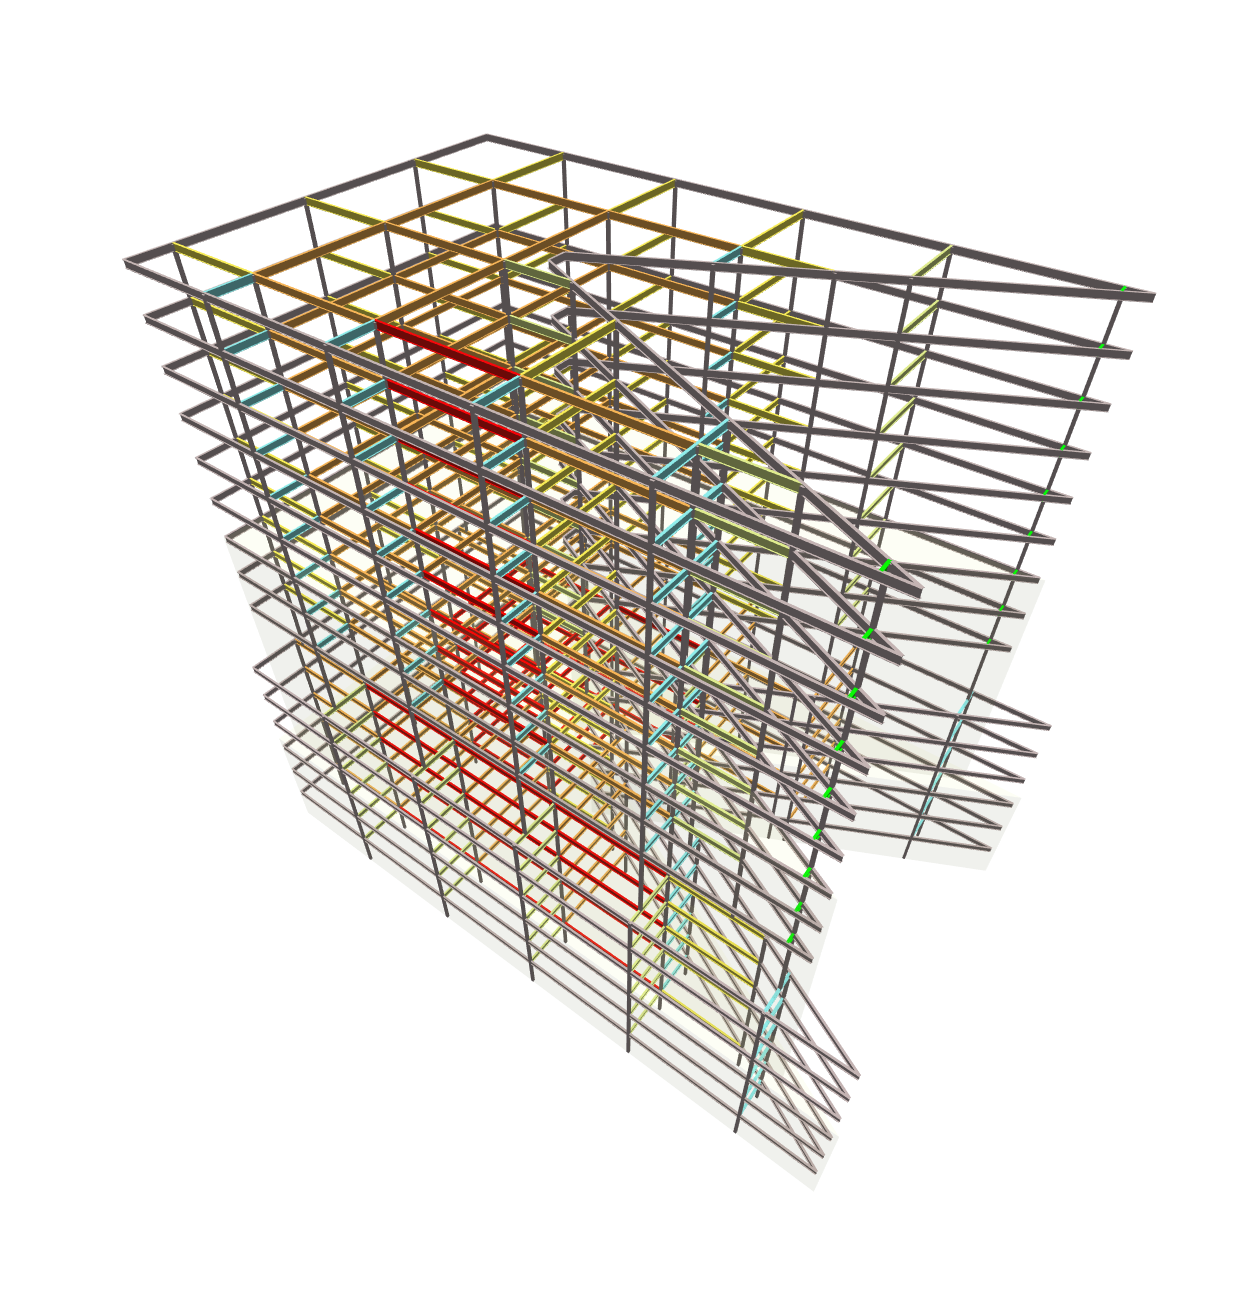
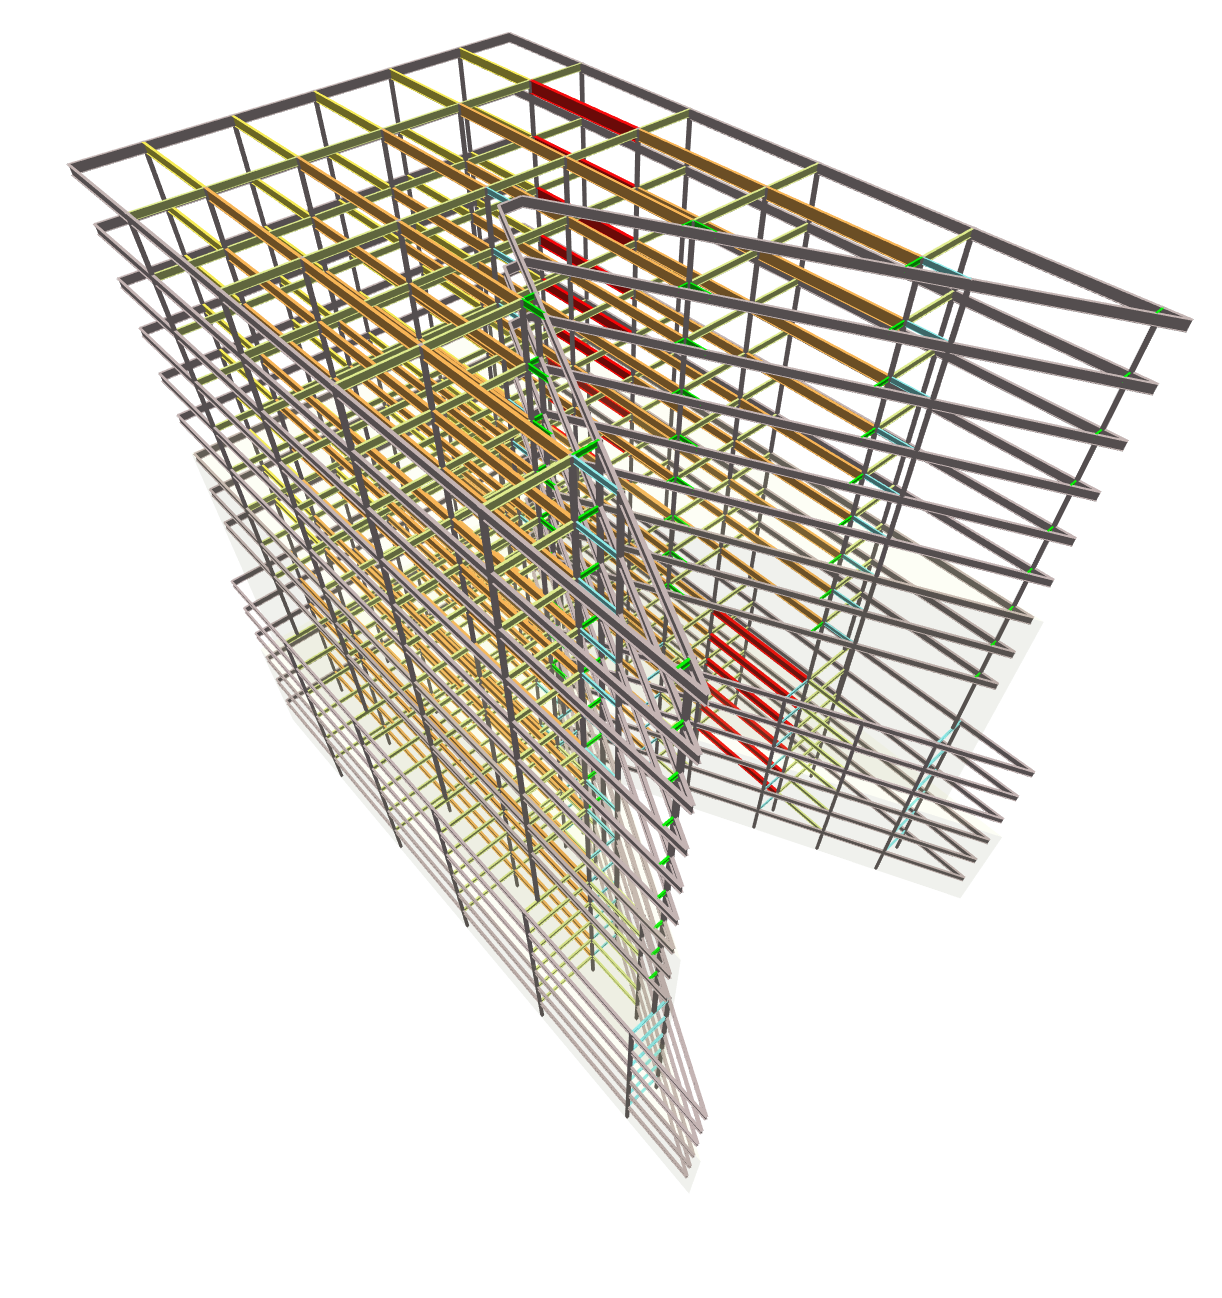
Add column sizing.

diff --git a/Structure/src/Structure.cs b/Structure/src/Structure.cs
@@ -64,6 +64,17 @@ namespace Structure
             new Material(Colors.Red, 0.0, 0.0, Guid.NewGuid(), "Gradient 6"),
         };
 
+        private static List<WideFlangeProfile> _beamProfiles = new List<WideFlangeProfile>(){
+            (WideFlangeProfile)WideFlangeProfileServer.Instance.GetProfileByName("W10x12"),
+            (WideFlangeProfile)WideFlangeProfileServer.Instance.GetProfileByName("W12x14"),
+            (WideFlangeProfile)WideFlangeProfileServer.Instance.GetProfileByName("W14x22"),
+            (WideFlangeProfile)WideFlangeProfileServer.Instance.GetProfileByName("W16x26"),
+            (WideFlangeProfile)WideFlangeProfileServer.Instance.GetProfileByName("W18x35"),
+            (WideFlangeProfile)WideFlangeProfileServer.Instance.GetProfileByName("W21x44"),
+            (WideFlangeProfile)WideFlangeProfileServer.Instance.GetProfileByName("W24x55"),
+            (WideFlangeProfile)WideFlangeProfileServer.Instance.GetProfileByName("W27x84")
+        };
+
         private static double _longestGridSpan = 0.0;
 
         /// <summary>
@@ -128,8 +139,6 @@ namespace Structure
                 levels = levelsModel.AllElementsOfType<Level>().ToList();
             }
 
-            var girderProfile = (WideFlangeProfile)WideFlangeProfileServer.Instance.GetProfileByName("W18x40");
-
             List<Line> xGrids;
             List<Line> yGrids;
 
@@ -144,8 +153,9 @@ namespace Structure
             foreach(var envelope in envelopes)
             {
                 // Inset the footprint just a bit to keep the
-                // beams out of the plane of the envelope.
-                var footprint = envelope.Profile.Perimeter.Offset(-girderProfile.bf/2)[0];
+                // beams out of the plane of the envelope. Use the biggest 
+                // beam that we have.
+                var footprint = envelope.Profile.Perimeter.Offset(-((WideFlangeProfile)_beamProfiles.Last()).bf/2)[0];
 
                 // Trim all the grid lines by the boundary
                 var boundarySegments = footprint.Segments();
@@ -178,12 +188,11 @@ namespace Structure
 
                 foreach(var l in envLevels)
                 {
-                    var t = new Transform(0,0,l.Elevation);
-                    var framing = CreateGirders(girderProfile, t, xGridSegments, yGridSegments, boundarySegments, input.ColorBeamsByLength);
+                    var framing = CreateGirders(l.Elevation, xGridSegments, yGridSegments, boundarySegments, input.ColorBeamsByLength);
                     model.AddElements(framing);
                 }
 
-                var colProfile = new Profile(Polygon.Rectangle(0.2,0.2));
+                var colProfile = (WideFlangeProfile)WideFlangeProfileServer.Instance.GetProfileByName("W18x76");
                 foreach(var lc in columnLocations)
                 {
                     var mat = BuiltInMaterials.Steel;
@@ -289,21 +298,24 @@ namespace Structure
             }
         }
 
-        private static List<Element> CreateGirders(Profile p, Transform t, List<Line> xGridSegments, List<Line> yGridSegments, IList<Line> boundarySegments, bool colorByLength)
+        private static List<Element> CreateGirders(double elevation,
+                                                   List<Line> xGridSegments,
+                                                   List<Line> yGridSegments,
+                                                   IList<Line> boundarySegments,
+                                                   bool colorByLength)
         {
             var beams = new List<Element>();
-            var beamOffset = new Transform(0,0,-0.25/2);
-            var levelTrans = new Transform(t);
-            levelTrans.Concatenate(beamOffset);
             var mat = BuiltInMaterials.Steel;
             foreach(var x in xGridSegments)
             {
                 try
                 {
+                    var lengthFactor = (x.Length()/_longestGridSpan);
+                    var profile = _beamProfiles[(int)(lengthFactor * (_beamProfiles.Count - 1))];
                     var beam = new Beam(x,
-                                        p,
-                                        colorByLength ? _lengthGradient[(int)((x.Length()/_longestGridSpan)*(_lengthGradient.Count-1))] : mat,
-                                        transform: levelTrans);
+                                        profile,
+                                        colorByLength ? _lengthGradient[(int)(lengthFactor*(_lengthGradient.Count-1))] : mat,
+                                        transform: new Transform(new Vector3(0,0, elevation-profile.d/2)));
                     beams.Add(beam);
                 }
                 catch(Exception ex)
@@ -317,10 +329,12 @@ namespace Structure
             {
                 try
                 {
+                    var lengthFactor = (y.Length()/_longestGridSpan);
+                    var profile = _beamProfiles[(int)(lengthFactor * (_beamProfiles.Count - 1))];
                     var beam = new Beam(y,
-                                        p,
-                                        colorByLength ? _lengthGradient[(int)((y.Length()/_longestGridSpan)*(_lengthGradient.Count-1))] : mat,
-                                        transform: levelTrans);
+                                        profile,
+                                        colorByLength ? _lengthGradient[(int)(lengthFactor * (_lengthGradient.Count-1))] : mat,
+                                        transform: new Transform(new Vector3(0,0, elevation-profile.d/2)));
                     beams.Add(beam);
                 }
                 catch(Exception ex)
@@ -332,10 +346,11 @@ namespace Structure
             }
             foreach(var s in boundarySegments)
             {
+                var profile = _beamProfiles[5];
                 var beam = new Beam(s,
-                                    p,
+                                    profile,
                                     BuiltInMaterials.Steel,
-                                    transform: levelTrans);
+                                    transform: new Transform(new Vector3(0,0,elevation - profile.d/2)));
                 beams.Add(beam);
             }
 
